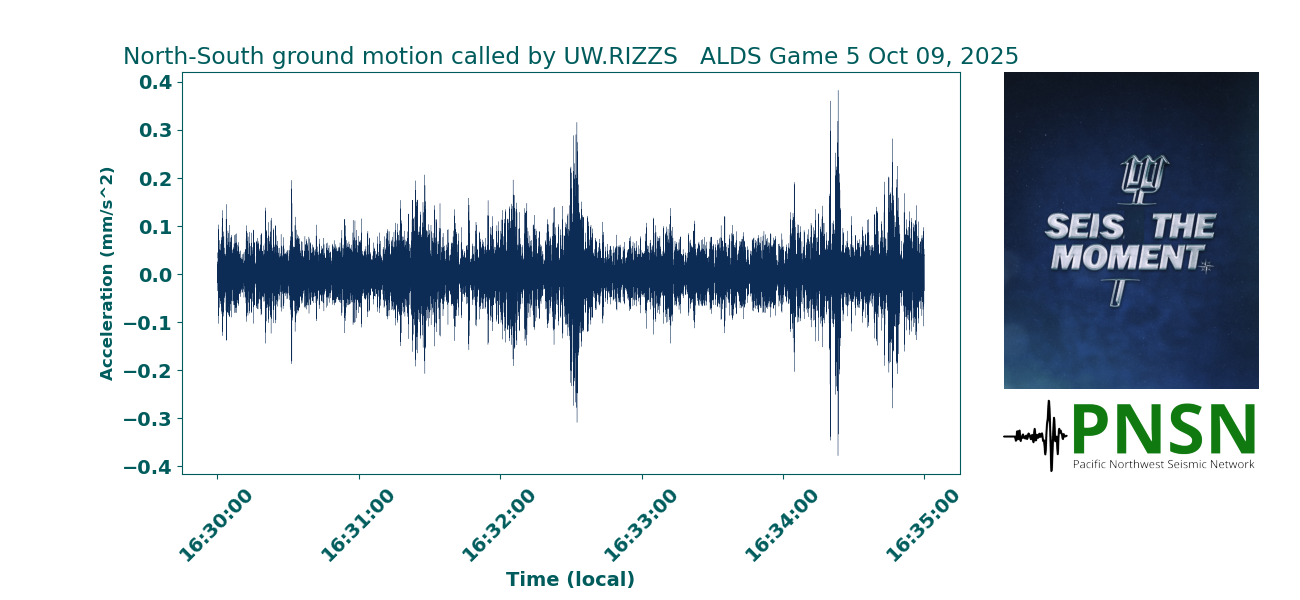
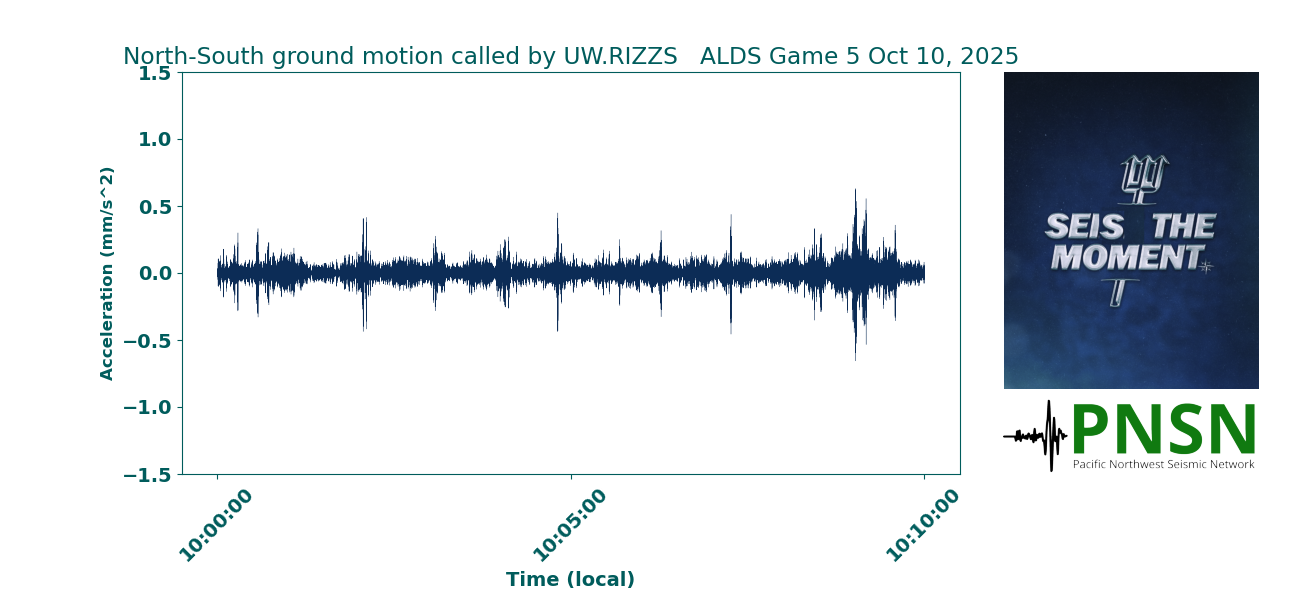
updated input time to local

diff --git a/MarinersQuake.py b/MarinersQuake.py
@@ -25,8 +25,12 @@ channel = "HNZ"
 #ylimits = 1.5
 
 # Define start and end times using local times 
-plot_start_time = datetime(2025, 10, 9, 16, 30, 0).astimezone(pytz.utc)
-plot_end_time = datetime(2025, 10, 9, 16, 35, 0).astimezone(pytz.utc)
+pacific = pytz.timezone('America/Los_Angeles')
+utc = pytz.utc
+plot_start_time_local = pacific.localize(datetime(2025, 10, 10, 10, 0, 0))
+plot_end_time_local = pacific.localize(datetime(2025, 10, 10, 10, 10, 0))
+plot_start_time = plot_start_time_local.astimezone(utc)
+plot_end_time = plot_end_time_local.astimezone(utc)
 
 # Define frequency bands for the response removal
 pre_filt = (0.2, 0.3, 30.0, 35.0)
@@ -44,7 +48,6 @@ trace_linewidth = 0.2
 
 # Choose and load the PNSN logo
 PNSNlogo = "PNSNLogo_RGB_Main.png"
-#PNSNlogo = "PNSNWebpageLogo.jpg"
 img2 = mpimg.imread(PNSNlogo)
 img1 = mpimg.imread("SeisTheMoment.png")
 
@@ -95,11 +98,8 @@ try:
     data = tr.data * 1000.
     times = [datetime.utcfromtimestamp(plot_start_time.timestamp() + t) for t in tr.times()]
 
-    # Define the Pacific Time Zone
-    pacific_tz = pytz.timezone('America/Los_Angeles')
-    
     # Calculate dynamic time offset based on date and daylight saving
-    offset = pacific_tz.utcoffset(times[0]).total_seconds() / 3600
+    offset = pacific.utcoffset(times[0]).total_seconds() / 3600
 
     # Adjust times to Pacific Time dynamically considering daylight savings
     fudged_local_times = [t + timedelta(hours=offset) for t in times]
@@ -109,9 +109,7 @@ try:
     plt.rcParams['font.size'] = 14          # default font size
     plt.rcParams['font.weight'] = 'bold'    # default bold 
     fig = plt.figure(figsize=(13,6))
-    gs = gridspec.GridSpec(2, 2, width_ratios=[10,4], height_ratios=[3.2,1])
-    if PNSNlogo == "PNSNLogo_RGB_Main.png":
-        gs = gridspec.GridSpec(2, 2, width_ratios=[10,4], height_ratios=[4,1])
+    gs = gridspec.GridSpec(2, 2, width_ratios=[10,4], height_ratios=[4,1])
     gs.update(wspace=0.03, hspace=0.03)
 
     # Plot main seismogram

diff --git a/README.md b/README.md
@@ -9,9 +9,9 @@ pip install pytz obspy requests
 The parameters in the code to play with to get the prettiest wiggles:\
 channel- Choose HNZ, HNN, or HNE for vertical, north-south, east-west ground motion.
 
-UTC time (will get converted to local time):\
-plot_start_time = datetime(2025, 10, 9, 16, 30, 0).astimezone(pytz.utc)\
-plot_end_time = datetime(2025, 10, 9, 16, 35, 0).astimezone(pytz.utc)
+Time window (Pacific time) of wiggles:\
+plot_start_time_local = pacific.localize(datetime(2025, 10, 10, 10, 0, 0))
+plot_end_time_local = pacific.localize(datetime(2025, 10, 10, 10, 10, 0))
 
 Frequency of the wiggles:  10-15 Hz was pretty good for Century Link events, maybe try 5-10, 5-15, 10-20.\
 freqmin = 10.\
@@ -25,9 +25,9 @@ Choose/replace the logo.  Top uses PNSNWebpageLogo.jpg, bottom uses PNSNLogo_RGB
 img2 = mpimg.imread("PNSNWebpageLogo.jpg")
 
 Using ylimits = 1.5 and PNSNWebpageLogo.jpg:\
-![Using PNSNWebpageLogo.jpg](https://github.com/pnsn/MarinersQuake/blob/main/seismogram_UW.RIZZS.HNE_Acceleration.png)
+![Using PNSNWebpageLogo.jpg](https://github.com/pnsn/MarinersQuake/blob/main/seismogram_UW.RIZZS.HNN_Acceleration.png)
 
-ylimits is commented out and using PNSNLogo_RGB_Main.png:\
+ylimits is commented out (amplitudes auto-scaled to fit figure):\
 ![Using PNSNLogo_RGB_Main.png](https://github.com/pnsn/MarinersQuake/blob/main/seismogram_UW.RIZZS.HNZ_Acceleration.png)
 
 
